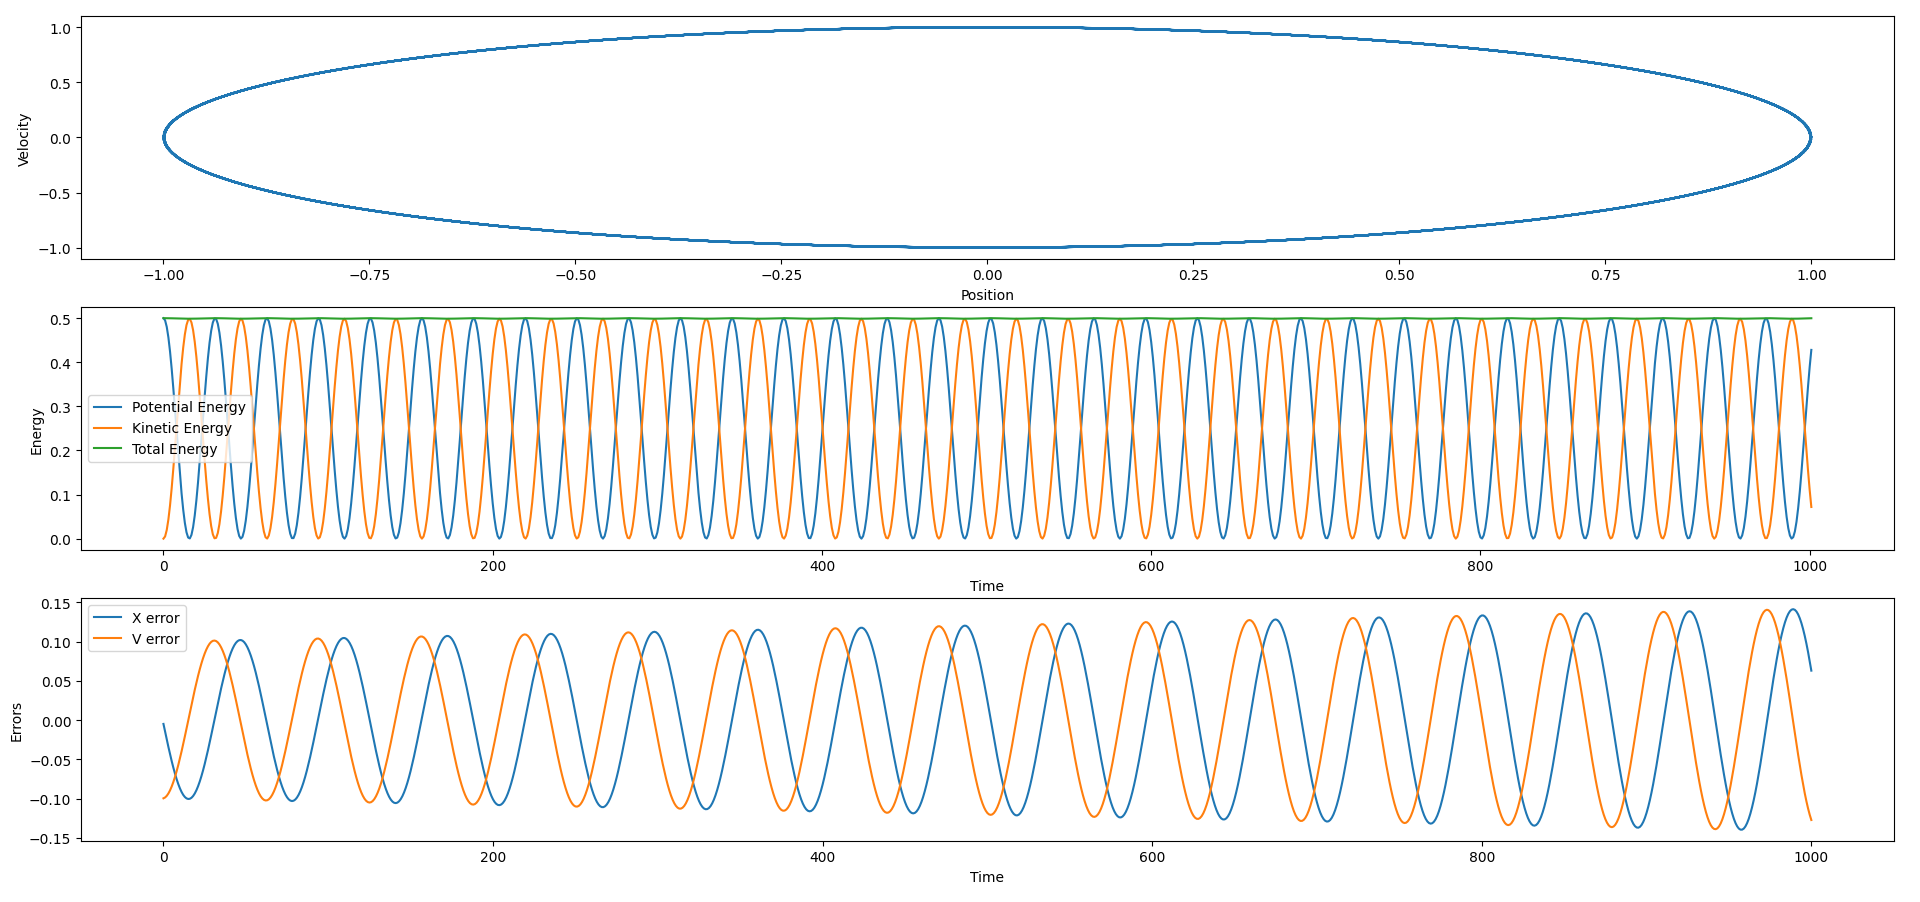
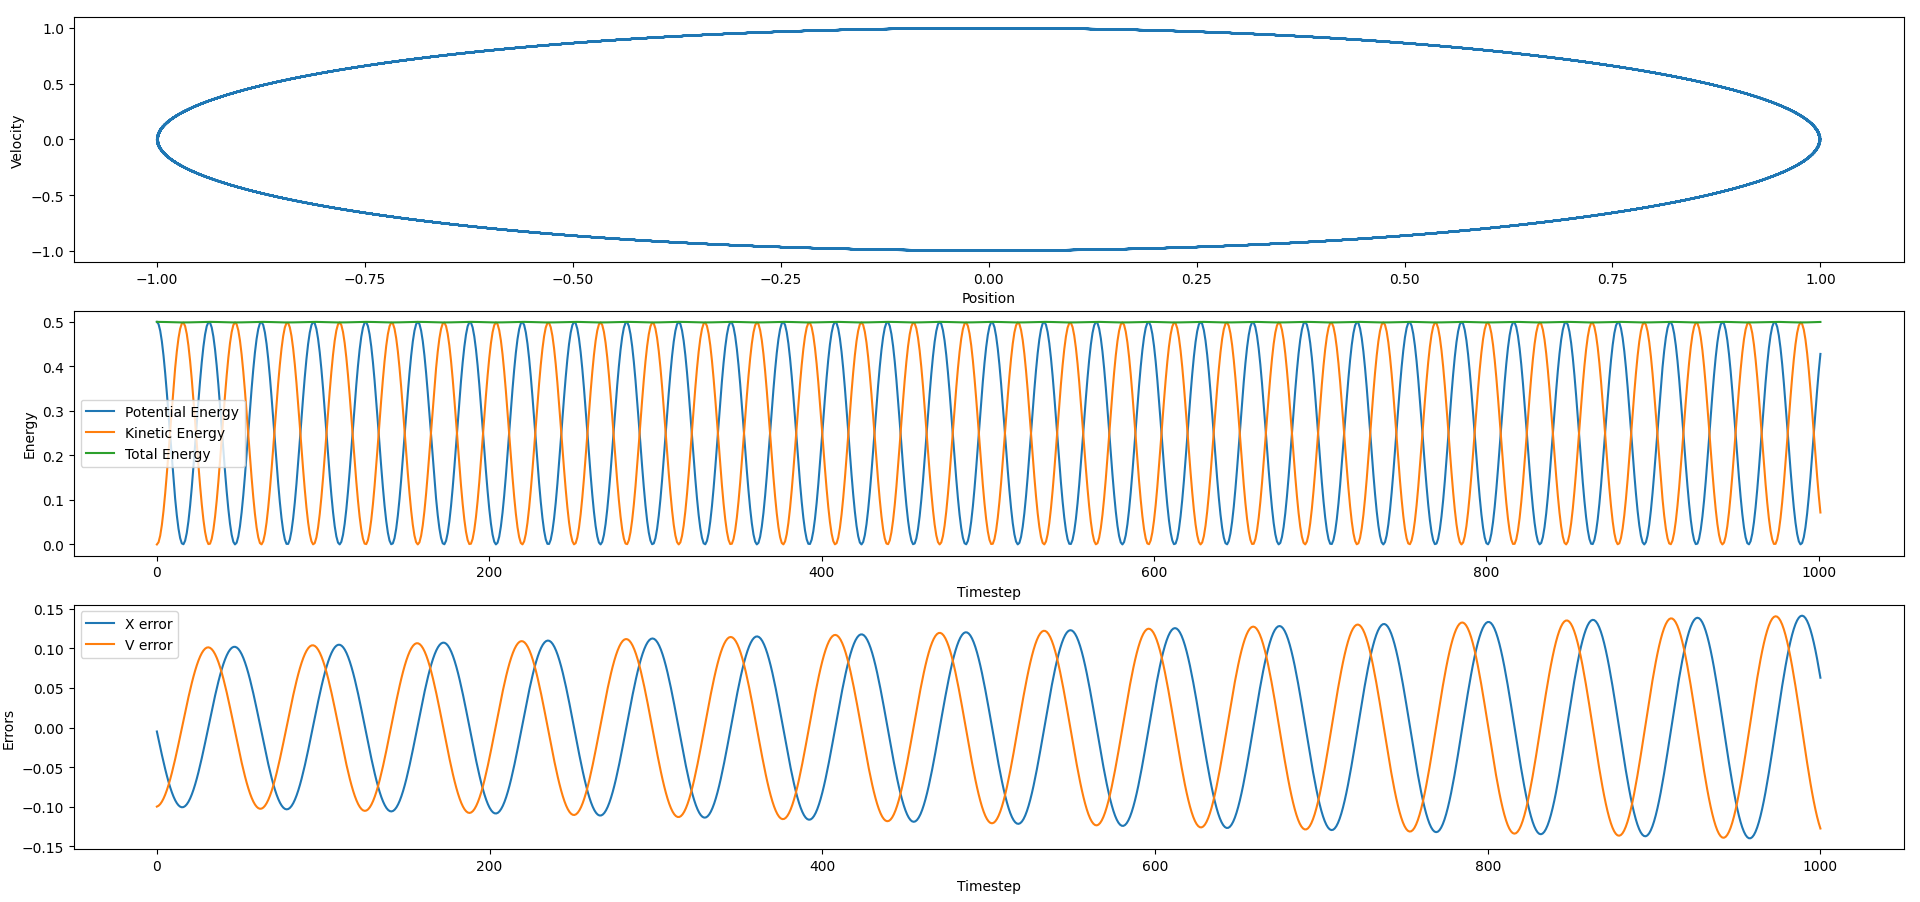
change x axis from time to timestep

diff --git a/MD.py b/MD.py
@@ -105,12 +105,12 @@ ax1.set_ylabel("Velocity")
 ax2.plot(PE_array, label = "Potential Energy")
 ax2.plot(KE_array, label = "Kinetic Energy")
 ax2.plot(Total_energy, label = "Total Energy")
-ax2.set_xlabel("Time")
+ax2.set_xlabel("Timestep")
 ax2.set_ylabel("Energy")
 ax2.legend()
 ax3.plot(x_differences, label = "X error")
 ax3.plot(v_differences, label = "V error")
-ax3.set_xlabel("Time")
+ax3.set_xlabel("Timestep")
 ax3.set_ylabel("Errors")
 ax3.legend()
 plt.show()
